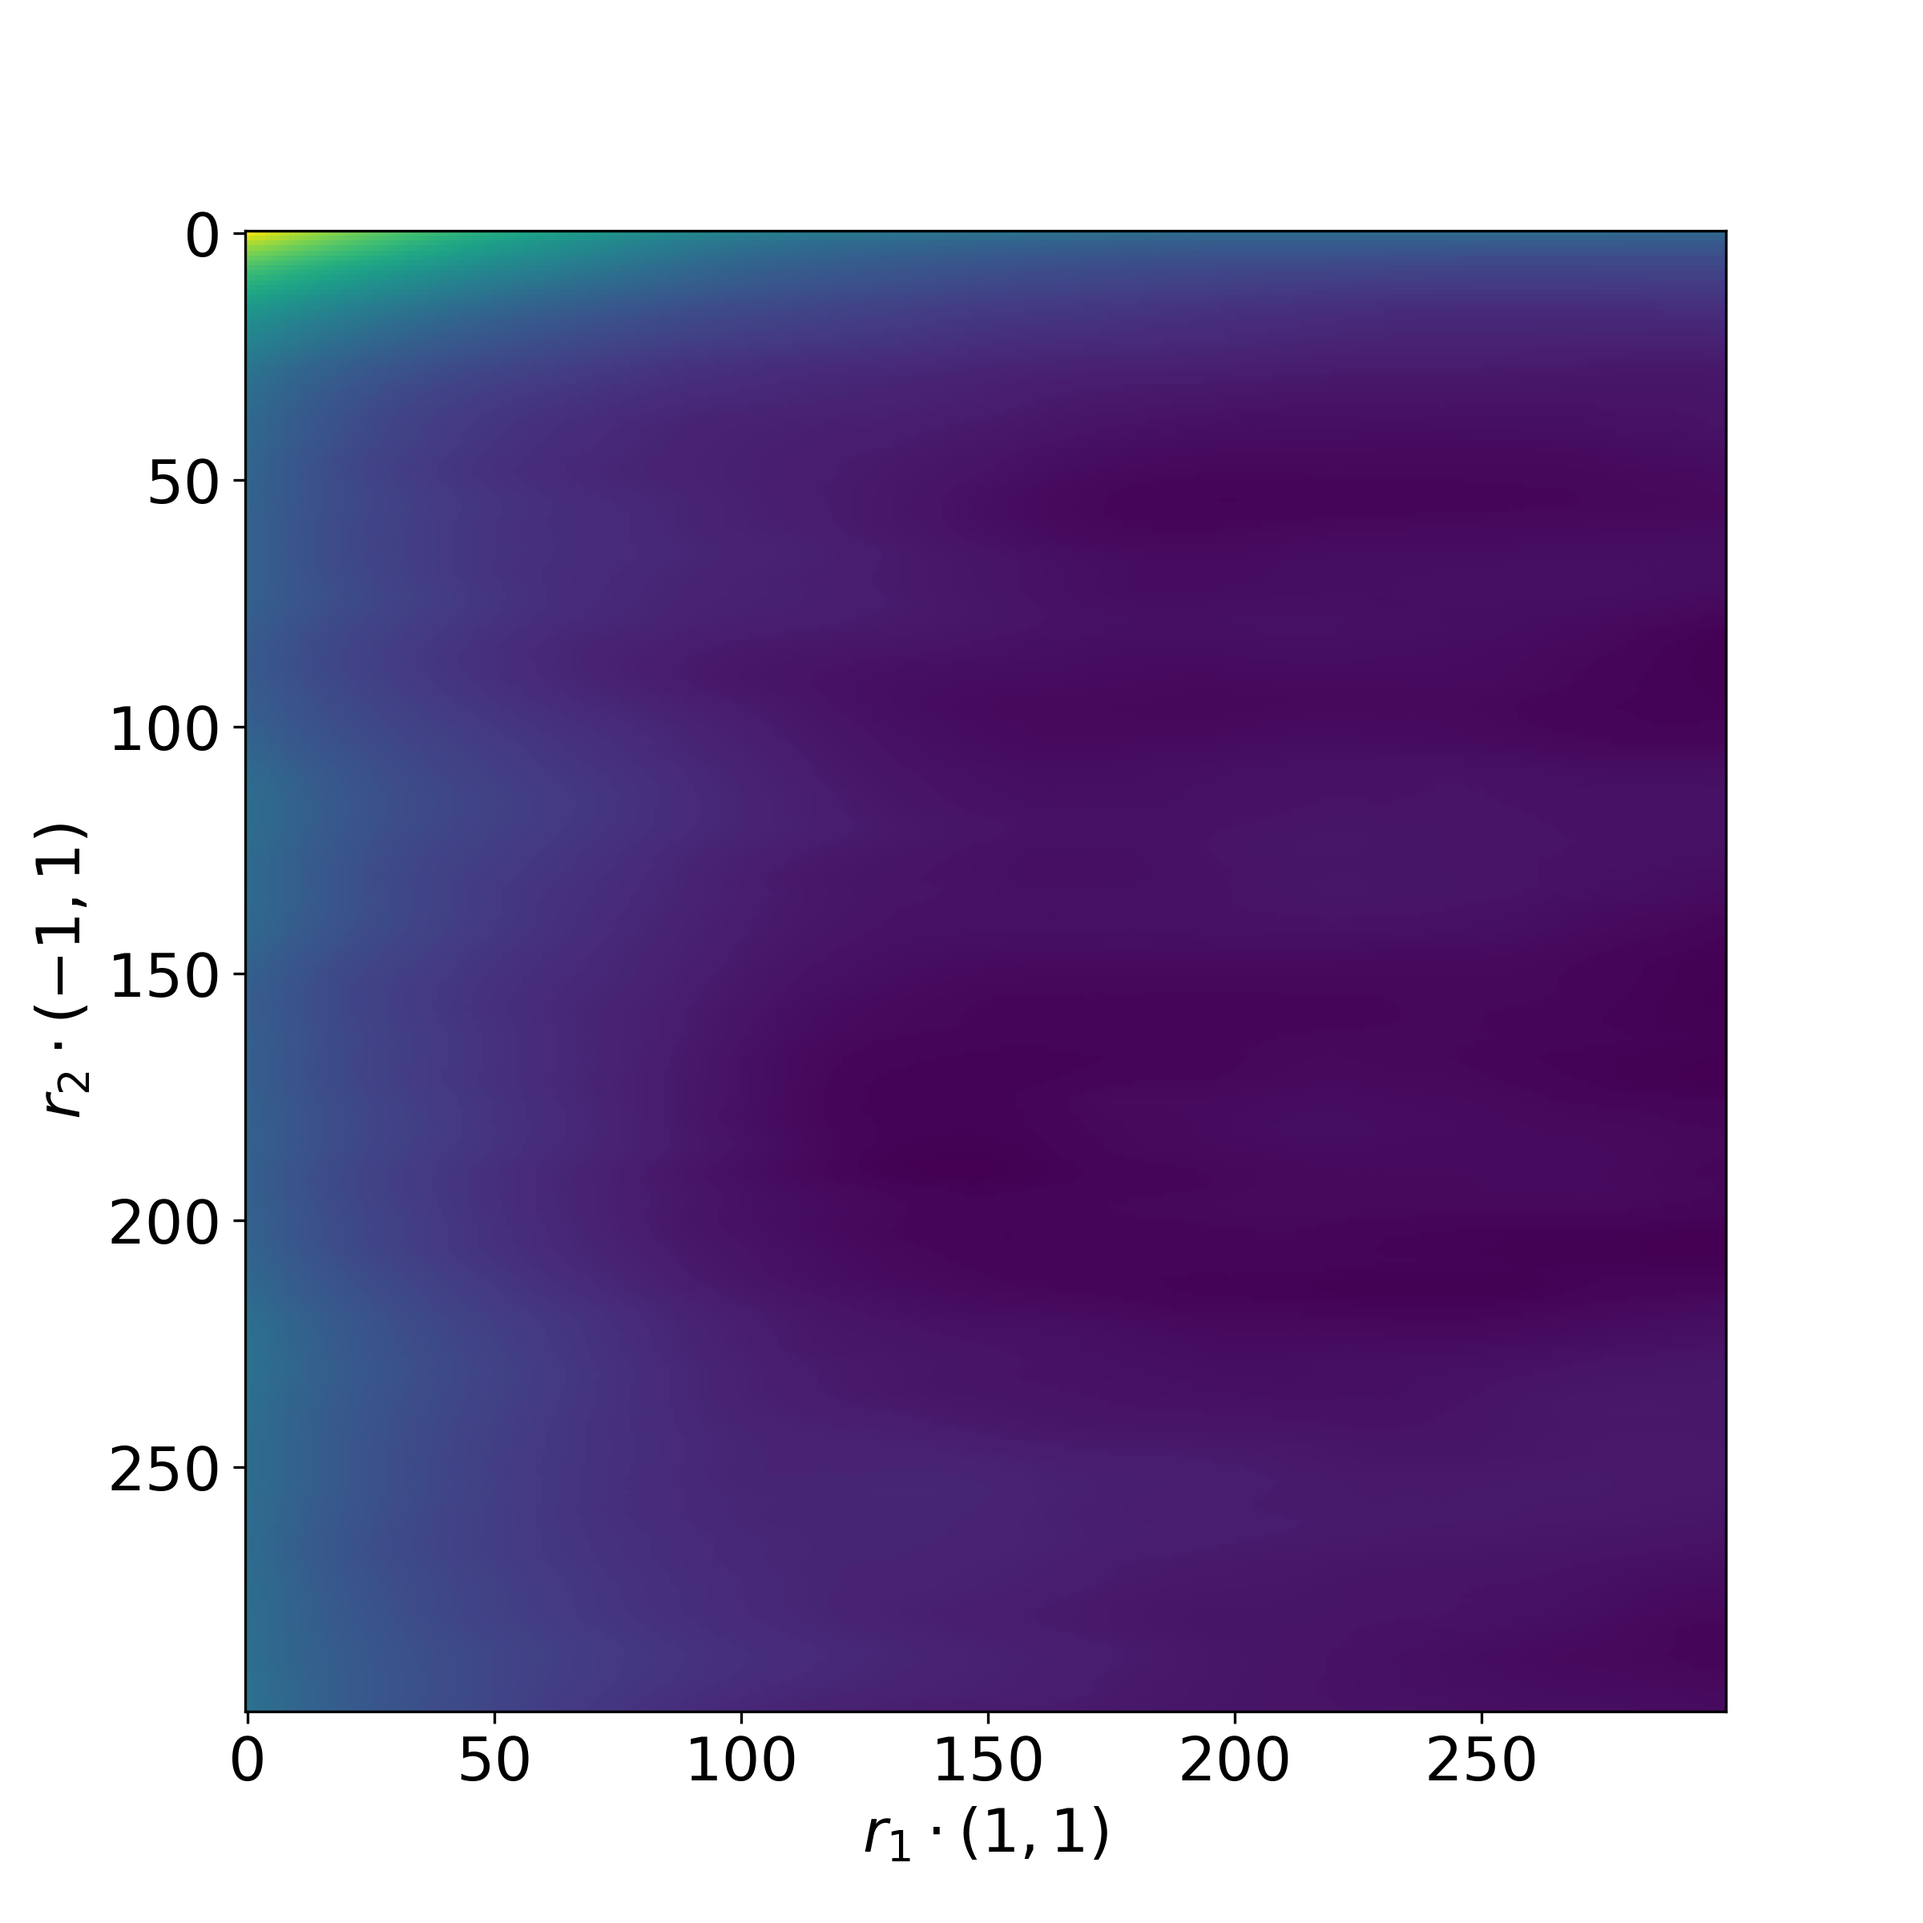
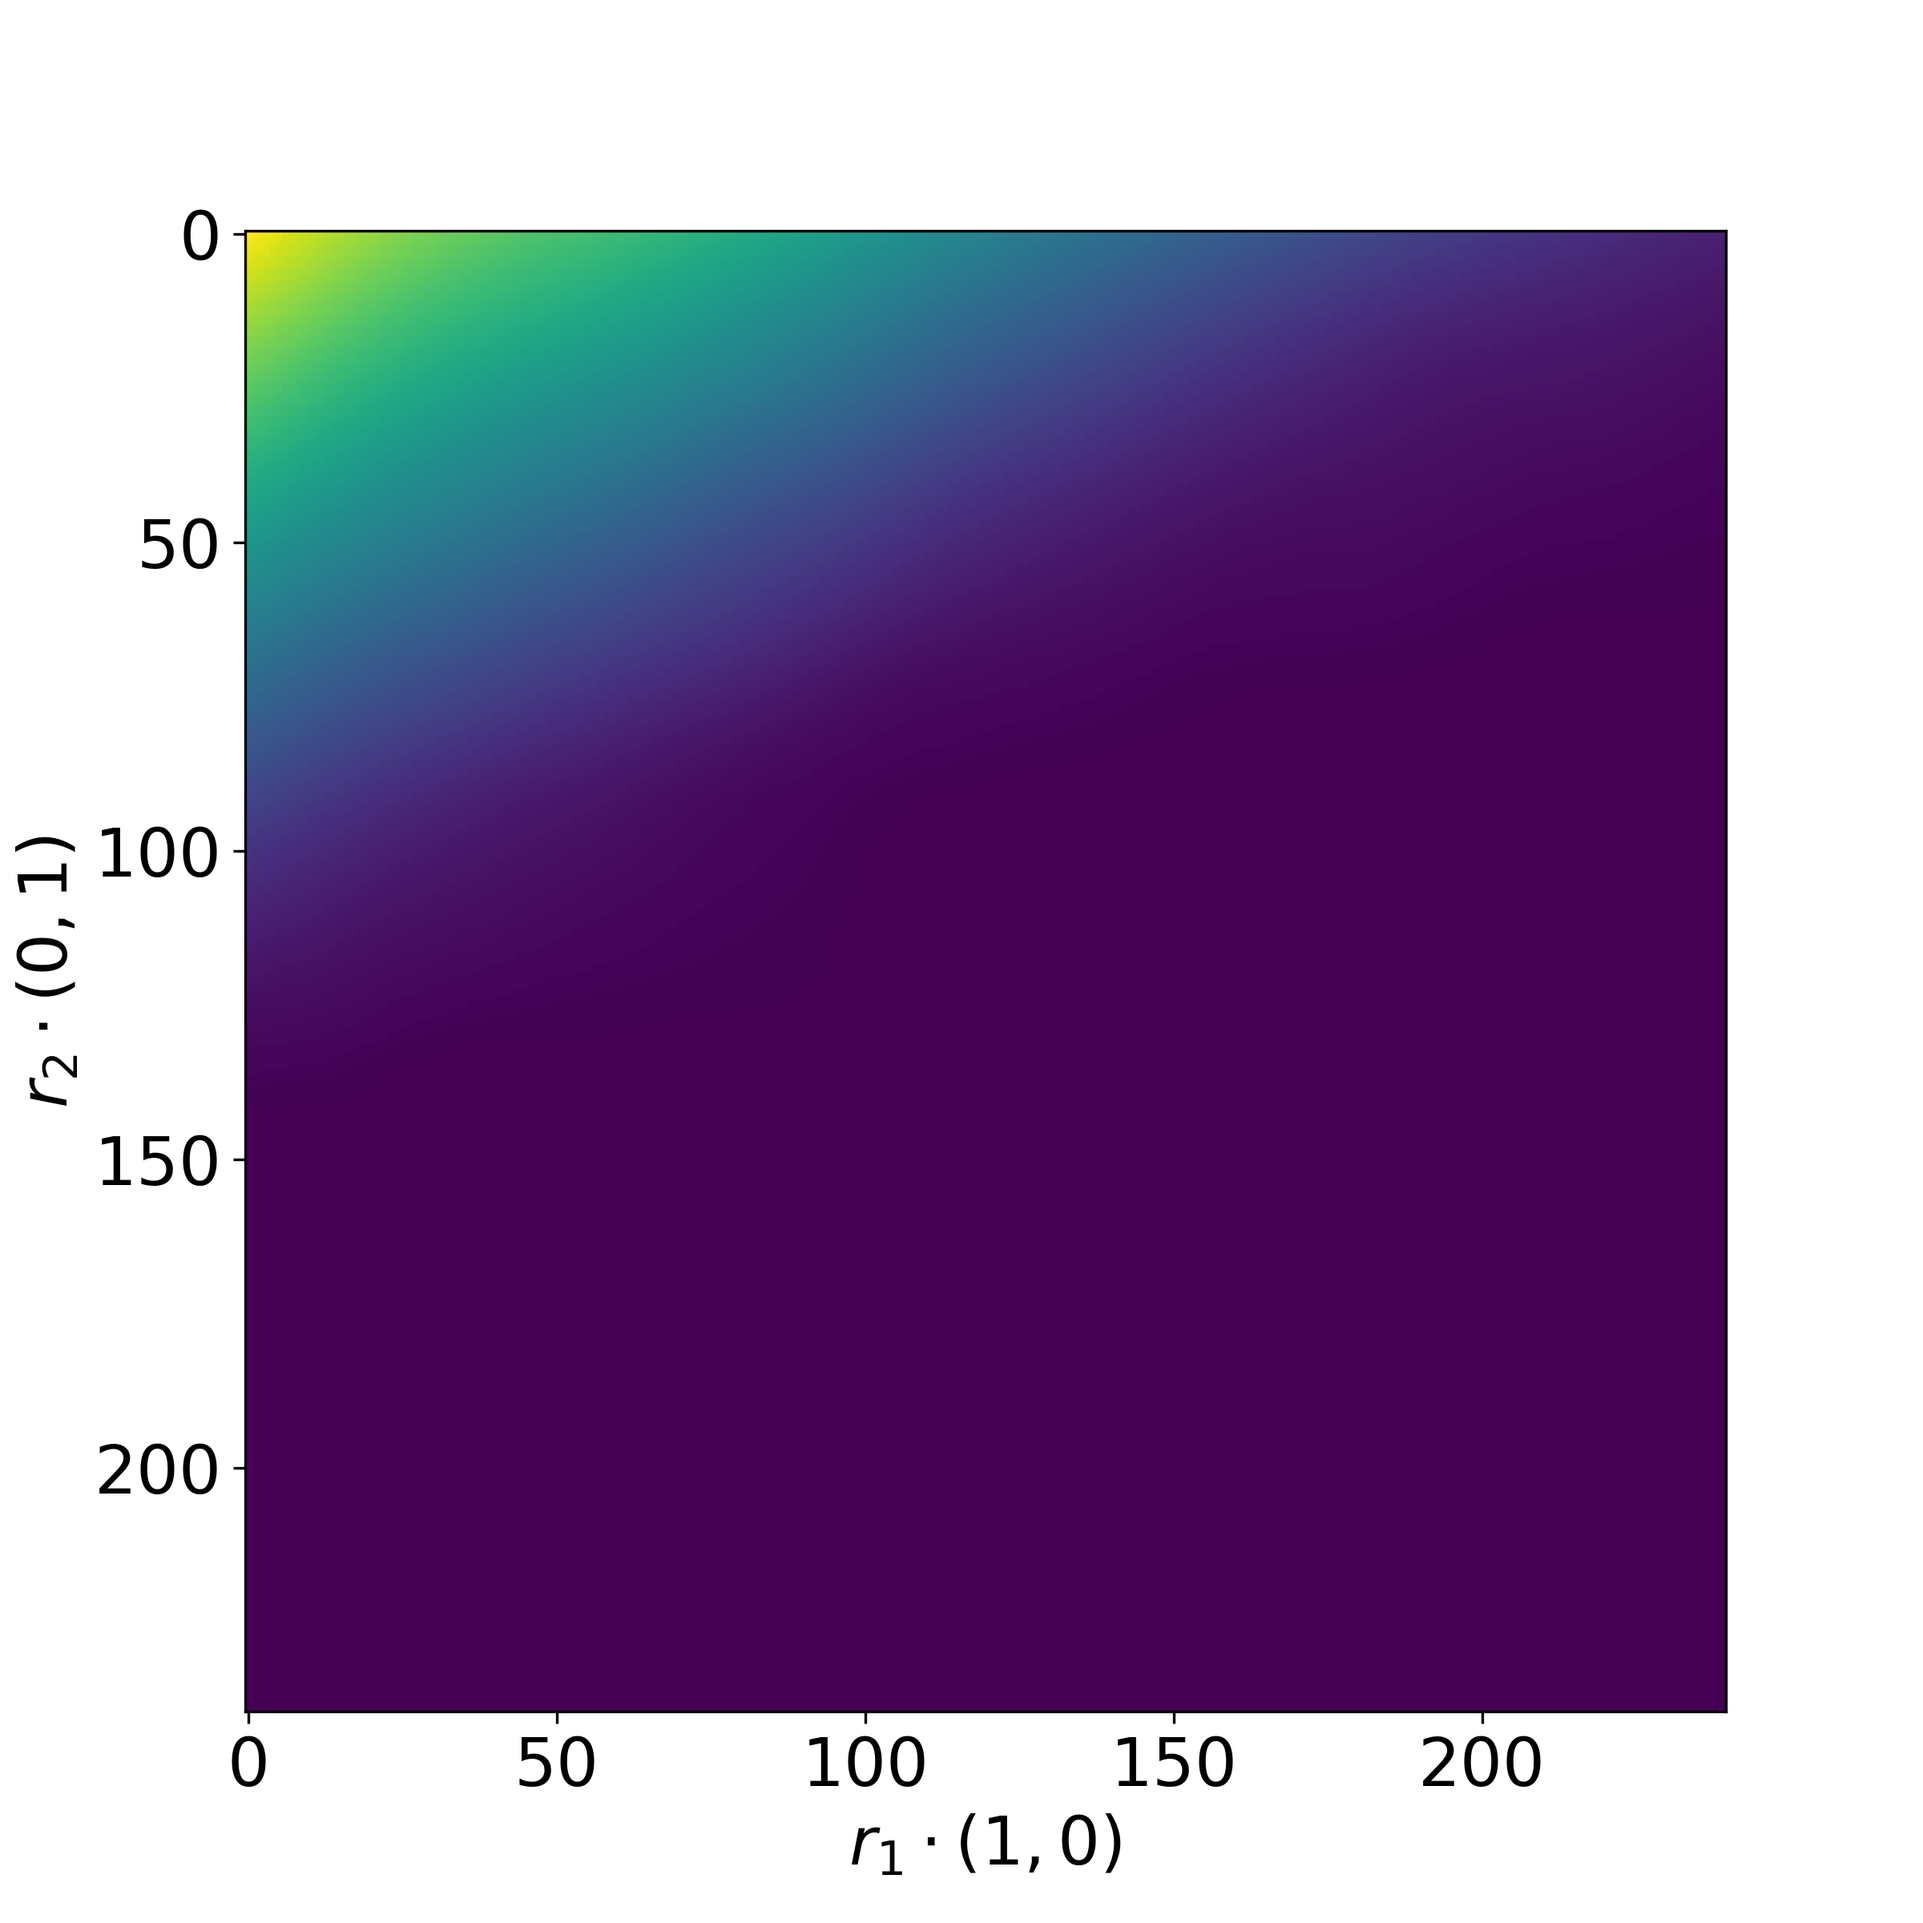
More about anisotropy

diff --git a/paper.tex b/paper.tex
@@ -547,23 +547,50 @@ orientation of triangles stored in the pattern.
 
 Our algorithm fixes $\theta = \frac{pi}{2}$ and does not perform random
 rotations or trial triangles. It is sensitive to anisotropicity of the medium
-when it is stretched along one of the axes as shown in \cref{fig:aniso}. The
-main advantage of our algorithm is its parallelizability and ease of
+when it is stretched along one of the axes as shown in \cref{fig:aniso}. A
+direction of elongation for a $N$-dimensional image can be easily detected by
+firstly evaluating a $N \times N$ covariance matrix for points belonging to the
+phase of interest:
+\begin{equation}
+  C_{ij} = \sum_{x \in \left\{ \text{Coordinates of points in the
+      phase of interest} \right\}} (x_i - \overline{x_i})(x_j - \overline{x_j})
+\end{equation}
+and then decomposing $C$ as $T \Lambda T^{-1}$ where $T$ is a unitary matrix and
+$\Lambda$ is diagonal. $T$ can always be made so that it defines a rotation and
+can be used to align the elongation with the axes (compare \cref{fig:aniso-unrot}
+and \cref{fig:aniso-rot}).
+
+The main advantage of our algorithm is its parallelizability and ease of
 implementation. An equivalent operation for rotation of test triangles is a
 rotation of the whole input image which we have implemented in our
 CorrelationFunctions.jl package. By applying a rotation to the input first we
 made a rest of the algorithm cache-friendly by avoiding random memory access.
 \begin{figure}[tp]
   \centering
-  \includegraphics[width=0.4\linewidth, frame]{images/aniso.png}
-  \vskip\baselineskip
-  \includegraphics[width=0.45\linewidth]{images/aniso-s3.png}
+
+  \subfigure[An original image of an anisotropic pore.]{
+    \includegraphics[width=0.45\linewidth, frame]{images/aniso.png}
+    \label{fig:aniso-unrot}}
   \hfill
-  \includegraphics[width=0.45\linewidth]{images/aniso-s3-avg.png}
-  \caption[]{$S_3$ function for anisotropic media (on the left) elongated along
-    the vector $(1, 1)$. Anisotropicity of the medium can be seen on a heatmap
-    of $S_3$ function (in the middle). An average of 120 $S_3$ evaluations of
-    the medium rotated by a random angle is on the right.}
+  \subfigure[A rotated image of pore, so it is elongated along the axis $X$.]{
+    \includegraphics[width=0.45\linewidth, frame]{images/aniso-rot.png}
+    \label{fig:aniso-rot}}
+  \vskip\baselineskip
+  \subfigure[$S_3$ function for the original image]{
+    \includegraphics[width=0.3\linewidth]{images/aniso-s3.png}}
+  \hfill
+  \subfigure[$S_3$ function for the rotated image. A vector $(0.92, -0.4)$ is a
+    direction of elongation of the pore.]{
+  \includegraphics[width=0.3\linewidth]{images/aniso-rot-s3.png}}
+  \hfill
+  \subfigure[$S_3$ function averaged across 100 random rotations.]{
+    \includegraphics[width=0.3\linewidth]{images/aniso-avg-s3.png}
+    \label{fig:aniso-avg}}
+  \caption[]{Behaviour of our algorithm for calculation of the $S_3$ function
+    when dealing with highly anisotropic media. The pattern \cref{fig:pattern}
+    which we use in our algorithm is most sensitive to anisotropy which is
+    directed along one of the axes. A result on \cref{fig:aniso-avg} is similar
+    to the algorithm proposed by Malmir~et~al.}
   \label{fig:aniso}
 \end{figure}
 
